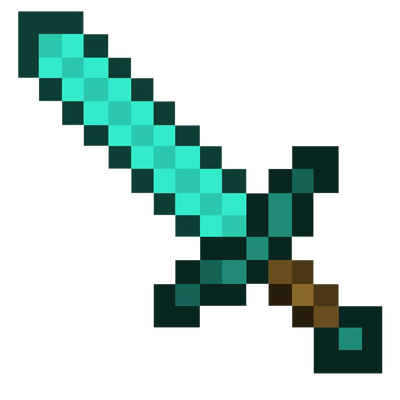
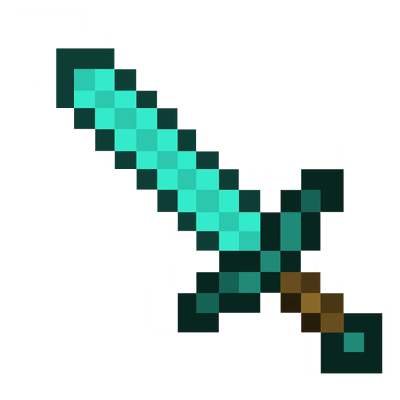
Animation in progress

Changed region(s): [[0.03, 0.03, 0.96, 0.96]]

diff --git a/src/render/animations.c b/src/render/animations.c
@@ -6,31 +6,79 @@
 /*   By: jariza-o <jariza-o@student.42malaga.com    +#+  +:+       +#+        */
 /*                                                +#+#+#+#+#+   +#+           */
 /*   Created: 2024/02/01 17:46:46 by jariza-o          #+#    #+#             */
-/*   Updated: 2024/02/05 17:52:14 by jariza-o         ###   ########.fr       */
+/*   Updated: 2024/02/06 16:57:47 by jariza-o         ###   ########.fr       */
 /*                                                                            */
 /* ************************************************************************** */
 
 #include "../../includes/cub3d.h"
 
+// void	ft_paint_animation(t_game *game)
+// {
+// 	mlx_texture_t	*img_text;
+// 	mlx_texture_t	*img_moved_text;
+
+// 	img_text = mlx_load_png("animations/sin_mover.png");
+// 	img_moved_text = mlx_load_png("animations/movida.png");
+// 	game->animation->img = mlx_texture_to_image(game->mlx, img_text);
+// 	game->animation->img_moved = mlx_texture_to_image(game->mlx, img_moved_text);
+// 	mlx_delete_texture(img_text);
+// 	mlx_delete_texture(img_moved_text);
+// 	// game->animation->img = mlx_new_image(game->mlx, 400, 400);
+// 	// game->animation->img_moved = mlx_new_image(game->mlx, 400, 400);
+// 	if (mlx_image_to_window(game->mlx, game->animation->img, 1300, 800) < 0)
+// 		ft_error(game, ERR_MLX_FAIL);
+// 	if (mlx_image_to_window(game->mlx, game->animation->img_moved, 1300, 800) < 0)
+// 		ft_error(game, ERR_MLX_FAIL);
+// 	game->animation->img_moved->instances[0].enabled = false;
+// 	game->animation->img->instances[0].enabled = true;
+// }
+
+// void	ft_animate(t_game *game)
+// {
+// 	float animation_switch_time;
+
+// 	animation_switch_time = 0.5f;
+// 	printf("delta_time: %f\n", game->mlx->delta_time);
+// 	game->animation->img_moved->instances[0].enabled = true;
+// 	game->animation->img->instances[0].enabled = false;
+// 	game->animation->time += game->mlx->delta_time;
+// 	if (game->animation->time >= animation_switch_time)
+// 	{
+// 		printf("ACUMULATOR %f\n", game->animation->time);
+// 		game->animation->img->instances[0].enabled = true;
+// 		game->animation->img_moved->instances[0].enabled = false;
+
+// 		game->animation->time = 0.0f;
+// 	}
+// }
+
+
 void	ft_paint_animation(t_game *game)
 {
-	mlx_texture_t	*img_text;
-	mlx_texture_t	*img_moved_text;
+	mlx_texture_t	*img_text[5];
+	int				i;
 
-	img_text = mlx_load_png("animations/sin_mover.png");
-	img_moved_text = mlx_load_png("animations/movida.png");
-	game->animation->img = mlx_texture_to_image(game->mlx, img_text);
-	game->animation->img_moved = mlx_texture_to_image(game->mlx, img_moved_text);
-	mlx_delete_texture(img_text);
-	mlx_delete_texture(img_moved_text);
+	img_text[0] = mlx_load_png("animations/sin_mover.png");
+	img_text[1] = mlx_load_png("animations/mov_1.png");
+	img_text[2] = mlx_load_png("animations/mov_2.png");
+	img_text[3] = mlx_load_png("animations/mov_3.png");
+	img_text[4] = mlx_load_png("animations/mov_4.png");
+	i = -1;
+	while (++i < 5)
+		game->animation->img[i] = mlx_texture_to_image(game->mlx, img_text[i]);
+	i = -1;
+	while (++i < 5)
+		mlx_delete_texture(img_text[i]);
 	// game->animation->img = mlx_new_image(game->mlx, 400, 400);
 	// game->animation->img_moved = mlx_new_image(game->mlx, 400, 400);
-	if (mlx_image_to_window(game->mlx, game->animation->img, 1300, 800) < 0)
-		ft_error(game, ERR_MLX_FAIL);
-	if (mlx_image_to_window(game->mlx, game->animation->img_moved, 1300, 800) < 0)
-		ft_error(game, ERR_MLX_FAIL);
-	game->animation->img_moved->instances[0].enabled = false;
-	game->animation->img->instances[0].enabled = true;
+	i = -1;
+	while (++i < 5)
+		if (mlx_image_to_window(game->mlx, game->animation->img[i], 1300, 800) < 0)
+			ft_error(game, ERR_MLX_FAIL);
+	i = 0;
+	game->animation->img[i]->instances[0].enabled = true;
+	while (++i < 5)
+		game->animation->img[i]->instances[0].enabled = false;
 }
 
 void	ft_animate(t_game *game)
@@ -39,15 +87,32 @@ void	ft_animate(t_game *game)
 
 	animation_switch_time = 0.5f;
 	printf("delta_time: %f\n", game->mlx->delta_time);
-	game->animation->img_moved->instances[0].enabled = true;
-	game->animation->img->instances[0].enabled = false;
+	game->animation->img[1]->instances[0].enabled = true;
+	game->animation->img[0]->instances[0].enabled = false;
 	game->animation->time += game->mlx->delta_time;
 	if (game->animation->time >= animation_switch_time)
 	{
 		printf("ACUMULATOR %f\n", game->animation->time);
-		game->animation->img->instances[0].enabled = true;
-		game->animation->img_moved->instances[0].enabled = false;
-
-		game->animation->time = 0.0f;
+		game->animation->img[2]->instances[0].enabled = true;
+		game->animation->img[1]->instances[0].enabled = false;
 	}
+	game->animation->time += 0.5f;
+	if (game->animation->time >= animation_switch_time)
+	{
+		game->animation->img[3]->instances[0].enabled = true;
+		game->animation->img[2]->instances[0].enabled = false;
+	}
+	game->animation->time += 0.5f;
+	if (game->animation->time >= animation_switch_time)
+	{
+		game->animation->img[4]->instances[0].enabled = true;
+		game->animation->img[3]->instances[0].enabled = false;
+	}
+	game->animation->time += 0.5f;
+	if (game->animation->time >= animation_switch_time)
+	{
+		game->animation->img[0]->instances[0].enabled = true;
+		game->animation->img[4]->instances[0].enabled = false;
+	}
+	game->animation->time = 0.0f;
 }

diff --git a/src/hooks/move_hooks.c b/src/hooks/move_hooks.c
@@ -3,10 +3,10 @@
 /*                                                        :::      ::::::::   */
 /*   move_hooks.c                                       :+:      :+:    :+:   */
 /*                                                    +:+ +:+         +:+     */
-/*   By: jmatas-p <jmatas-p@student.42.fr>          +#+  +:+       +#+        */
+/*   By: jariza-o <jariza-o@student.42malaga.com    +#+  +:+       +#+        */
 /*                                                +#+#+#+#+#+   +#+           */
 /*   Created: 2023/12/10 13:12:30 by jariza-o          #+#    #+#             */
-/*   Updated: 2024/02/05 19:30:22 by jmatas-p         ###   ########.fr       */
+/*   Updated: 2024/02/06 15:47:12 by jariza-o         ###   ########.fr       */
 /*                                                                            */
 /* ************************************************************************** */
 
@@ -132,8 +132,8 @@ void	w_key(t_game *game)
 		game->player->minimap.x += cos(game->player->angrot) * MV_SPEED;
 	if (ft_check_wall(game->player->minimap.x, futur_pos.y, game))
 		game->player->minimap.y -= sin(game->player->angrot) * MV_SPEED;
-	if (ft_check_wall(futur_pos.x, game->player->minimap.y, game) && ft_check_wall(game->player->minimap.x, futur_pos.y, game))
-		ft_repaint_minimap(game, 1);
+	// if (ft_check_wall(futur_pos.x, game->player->minimap.y, game) && ft_check_wall(game->player->minimap.x, futur_pos.y, game))
+	// 	ft_repaint_minimap(game, 1);
 }
 
 void	s_key(t_game *game)
@@ -146,8 +146,8 @@ void	s_key(t_game *game)
 		game->player->minimap.x -= cos(game->player->angrot) * MV_SPEED;
 	if (ft_check_wall(game->player->minimap.x, futur_pos.y, game))
 		game->player->minimap.y += sin(game->player->angrot) * MV_SPEED;
-	if (ft_check_wall(futur_pos.x, game->player->minimap.y, game) && ft_check_wall(game->player->minimap.x, futur_pos.y, game))
-		ft_repaint_minimap(game, 1);
+	// if (ft_check_wall(futur_pos.x, game->player->minimap.y, game) && ft_check_wall(game->player->minimap.x, futur_pos.y, game))
+	// 	ft_repaint_minimap(game, 1);
 }
 
 void	a_key(t_game *game)
@@ -162,8 +162,8 @@ void	a_key(t_game *game)
 		game->player->minimap.x += cos(game->player->angrot + (PI / 2)) * MV_SPEED;
 	if (ft_check_wall(game->player->minimap.x, futur_pos.y, game))
 		game->player->minimap.y -= sin(game->player->angrot + (PI / 2)) * MV_SPEED;
-	if (ft_check_wall(futur_pos.x, game->player->minimap.y, game) && ft_check_wall(game->player->minimap.x, futur_pos.y, game))
-		ft_repaint_minimap(game, 1);
+	// if (ft_check_wall(futur_pos.x, game->player->minimap.y, game) && ft_check_wall(game->player->minimap.x, futur_pos.y, game))
+	// 	ft_repaint_minimap(game, 1);
 }
 
 void	d_key(t_game *game)
@@ -178,8 +178,8 @@ void	d_key(t_game *game)
 		game->player->minimap.x += cos(game->player->angrot - (PI / 2)) * MV_SPEED;
 	if (ft_check_wall(game->player->minimap.x, futur_pos.y, game))
 		game->player->minimap.y -= sin(game->player->angrot - (PI / 2)) * MV_SPEED;
-	if (ft_check_wall(futur_pos.x, game->player->minimap.y, game) && ft_check_wall(game->player->minimap.x, futur_pos.y, game))
-		ft_repaint_minimap(game, 1);
+	// if (ft_check_wall(futur_pos.x, game->player->minimap.y, game) && ft_check_wall(game->player->minimap.x, futur_pos.y, game))
+	// 	ft_repaint_minimap(game, 1);
 }
 
 void	check_movement(t_game *game)

diff --git a/includes/cub3d.h b/includes/cub3d.h
@@ -3,10 +3,10 @@
 /*                                                        :::      ::::::::   */
 /*   cub3d.h                                            :+:      :+:    :+:   */
 /*                                                    +:+ +:+         +:+     */
-/*   By: jmatas-p <jmatas-p@student.42.fr>          +#+  +:+       +#+        */
+/*   By: jariza-o <jariza-o@student.42malaga.com    +#+  +:+       +#+        */
 /*                                                +#+#+#+#+#+   +#+           */
 /*   Created: 2023/11/21 18:06:53 by jmatas-p          #+#    #+#             */
-/*   Updated: 2024/02/05 19:26:11 by jmatas-p         ###   ########.fr       */
+/*   Updated: 2024/02/06 16:13:41 by jariza-o         ###   ########.fr       */
 /*                                                                            */
 /* ************************************************************************** */
 
@@ -88,8 +88,8 @@ typedef struct s_player
 
 typedef struct s_animation
 {
-	mlx_image_t	*img;
-	mlx_image_t	*img_moved;
+	mlx_image_t	*img[5];
+	// mlx_image_t	*img_moved;
 	float		time;
 }				t_animation;
 

diff --git a/src/hooks/hooks.c b/src/hooks/hooks.c
@@ -3,10 +3,10 @@
 /*                                                        :::      ::::::::   */
 /*   hooks.c                                            :+:      :+:    :+:   */
 /*                                                    +:+ +:+         +:+     */
-/*   By: jmatas-p <jmatas-p@student.42.fr>          +#+  +:+       +#+        */
+/*   By: jariza-o <jariza-o@student.42malaga.com    +#+  +:+       +#+        */
 /*                                                +#+#+#+#+#+   +#+           */
 /*   Created: 2023/11/28 17:27:35 by jmatas-p          #+#    #+#             */
-/*   Updated: 2024/02/05 17:59:45 by jmatas-p         ###   ########.fr       */
+/*   Updated: 2024/02/06 16:50:55 by jariza-o         ###   ########.fr       */
 /*                                                                            */
 /* ************************************************************************** */
 
